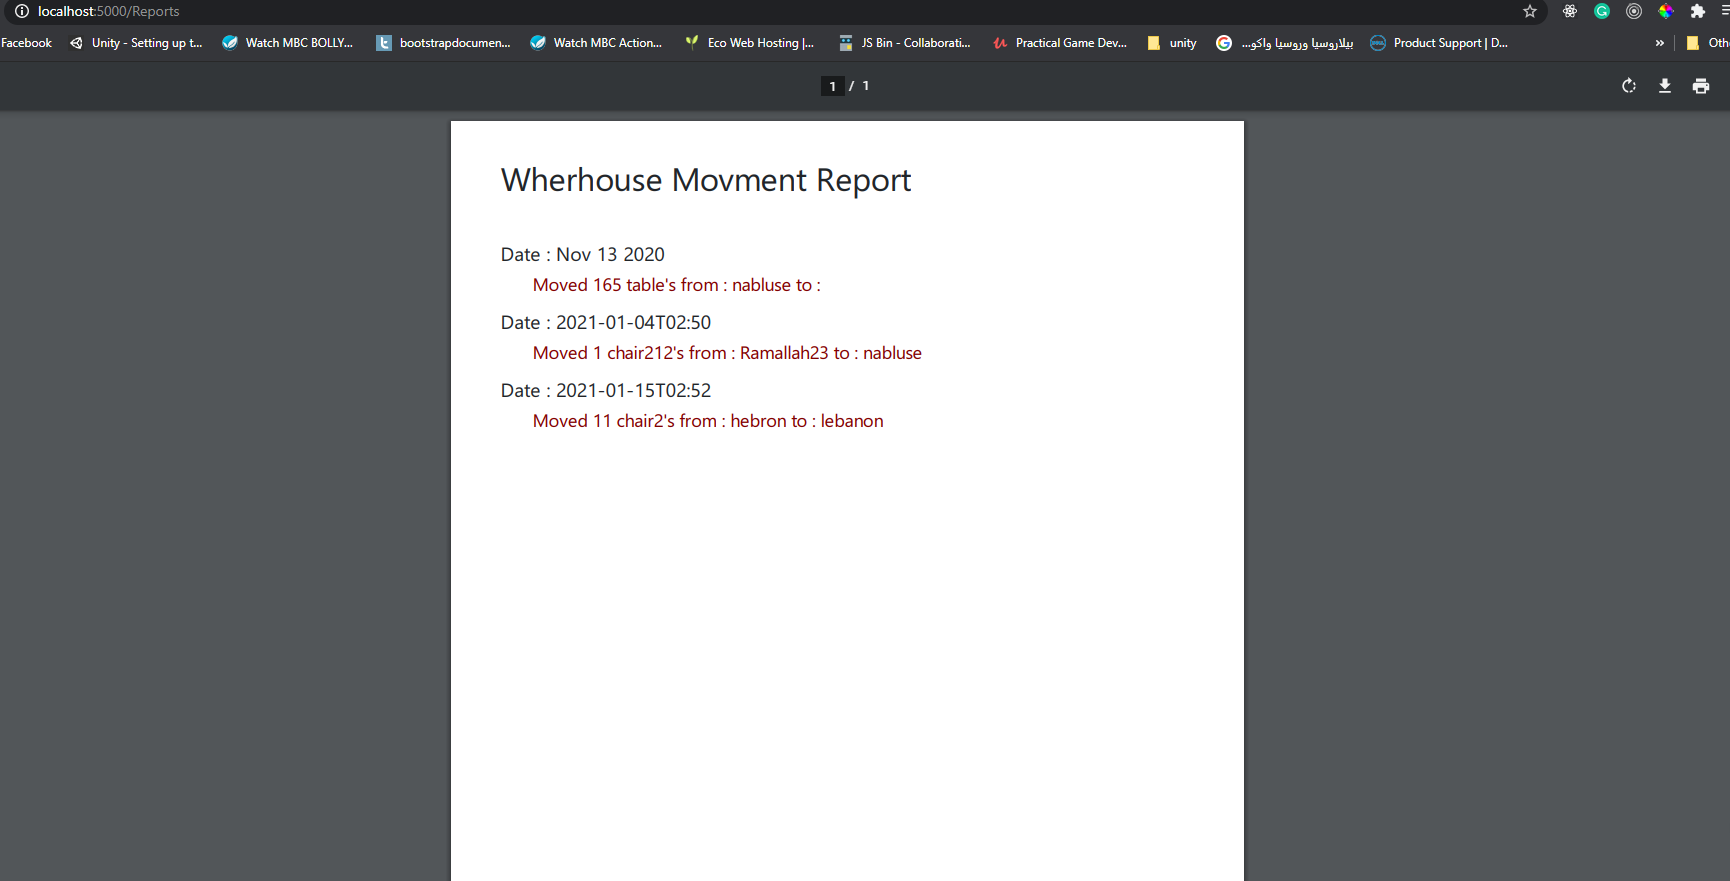
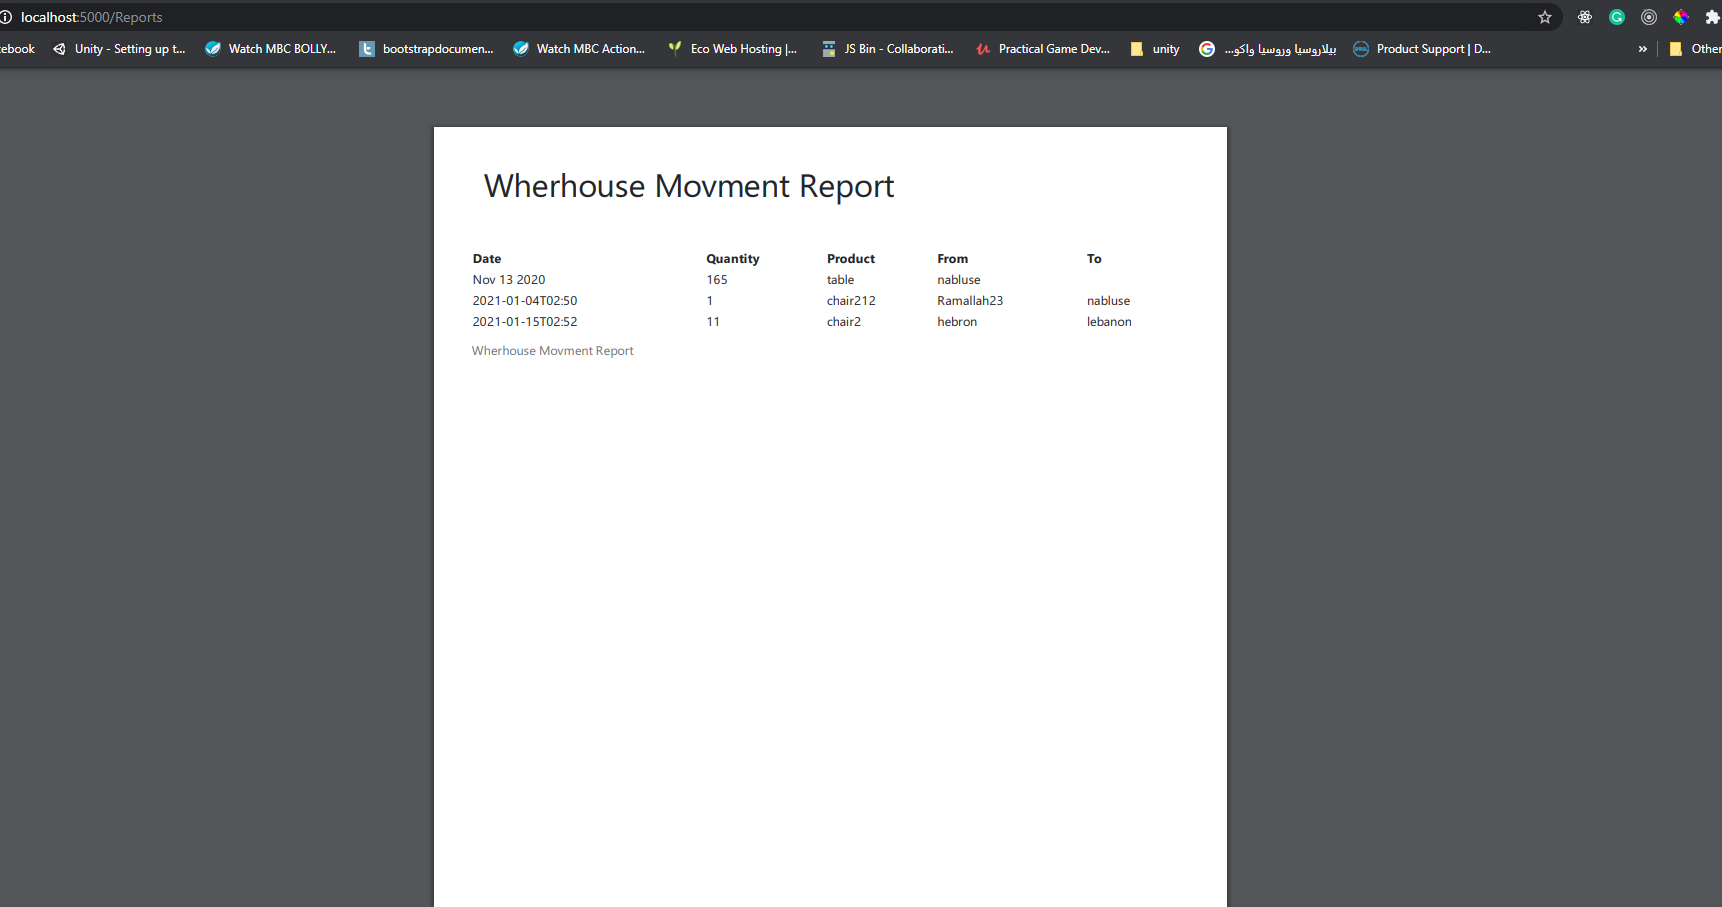
updte the report

Changed region(s): [[0.0, 0.0, 1.0, 1.0], [0.6156, 0.3065, 0.6463, 0.3678]]

diff --git a/templates/pdfReport.html b/templates/pdfReport.html
@@ -29,16 +29,30 @@ p {
     <h1> Wherhouse Movment Report</h1>
     </br>   </br>
       <div class="row">
-      
-        <div class="col">
+      <table style="width:100%">
+        <caption>Wherhouse Movment Report</caption>
+        <tr>
+          <th>Date</th>
+          <th>Quantity</th>
+          <th>Product</th>
+          <th>From</th>
+          <th>To</th>
+        </tr>
+       
          
           {% for item in data%}
-          <h4> Date : {{ item.timestamp }}</h4>
-           <p class="report_data"> Moved {{ item.qyt}} {{ item.product_id}}'s from : {{ item.from_location }} to : {{ item.to_location }}  </p>
+           <tr>
+             <td> {{ item.timestamp }}</td>
+             <td> {{ item.qyt}}</td>
+             <td>  {{ item.product_id}}</td>
+             <td>  {{ item.from_location}}</td>
+             <td>  {{ item.to_location}}</td>
+            <tr>
           {% endfor %} 
-        </div>
        
-      </div>
+       
+   
+      </table>
     </main>
 
 

diff --git a/main.py b/main.py
@@ -125,7 +125,7 @@ def update_Remove_View_Product(ID):
     if request.method =='POST':
         product_id = form.product_id.data
         db.child("Product").child(ID).update({"product_id":product_id})
-        return redirect(request.referrer)
+        return redirect("/Product")
 
     # -------------------- if its a get request we will retuen the page --------------------
     return render_template("UpdatProduct.html", form=form , item={'product_id':ID})
@@ -188,20 +188,13 @@ def update_Remove_View_Locations(ID):
     if request.method =='POST':
         location_id = form.location_id.data
         db.child("Location").child(ID).update({"location_id":location_id})
-        return redirect(request.referrer)
+        return redirect("/Location")
     # -------------------- if its a get request we will retuen the page --------------------
     return render_template("UpdateLocation.html", form=form , item={'location_id':ID})
 
 
 
-# Location=db.child("Location").get()
-# Locationvalue =Location.val()
-# priduvtsArray =[('0', "No Locarion")]
-# for product in Locationvalue:
-#     priduvtsArray.append((product,Locationvalue[product]['location_id']))
 
-# list2=[tup for tup in tups if tup[0] in priduvtsArray ]
-# print(list2,"kkkkkkkkkkkkk")
 
 
 if __name__ == '__main__':
